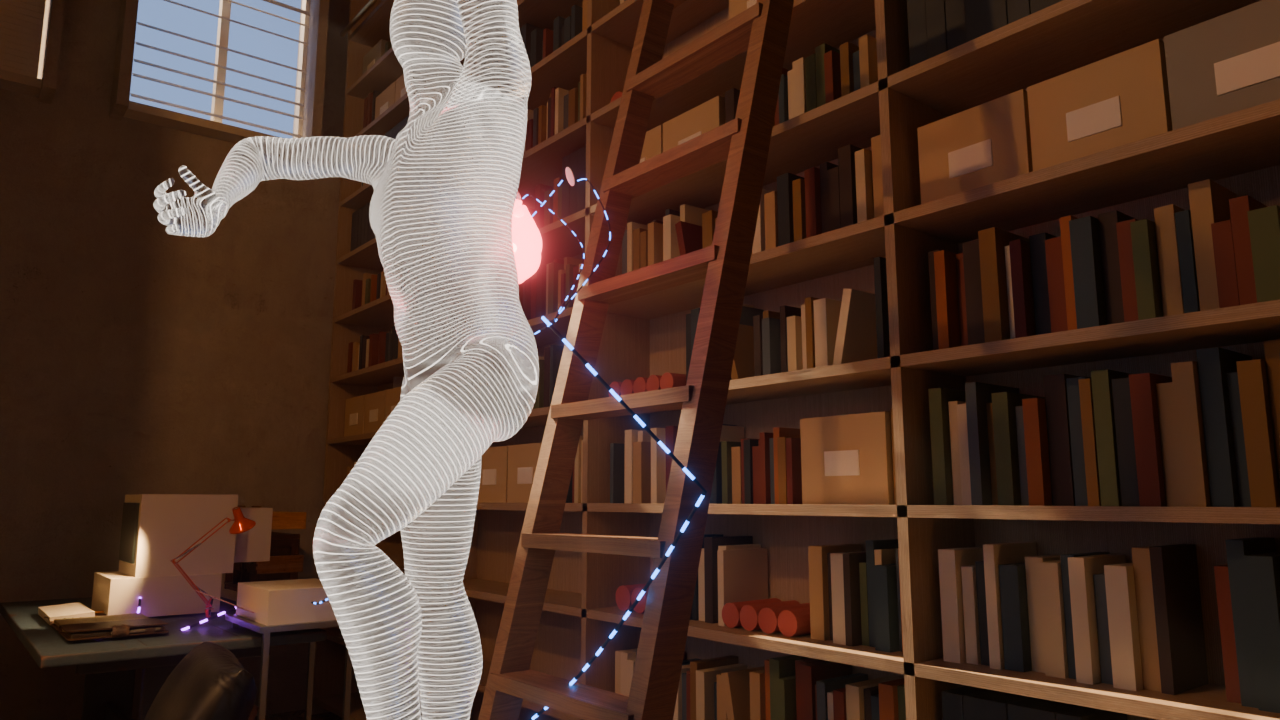
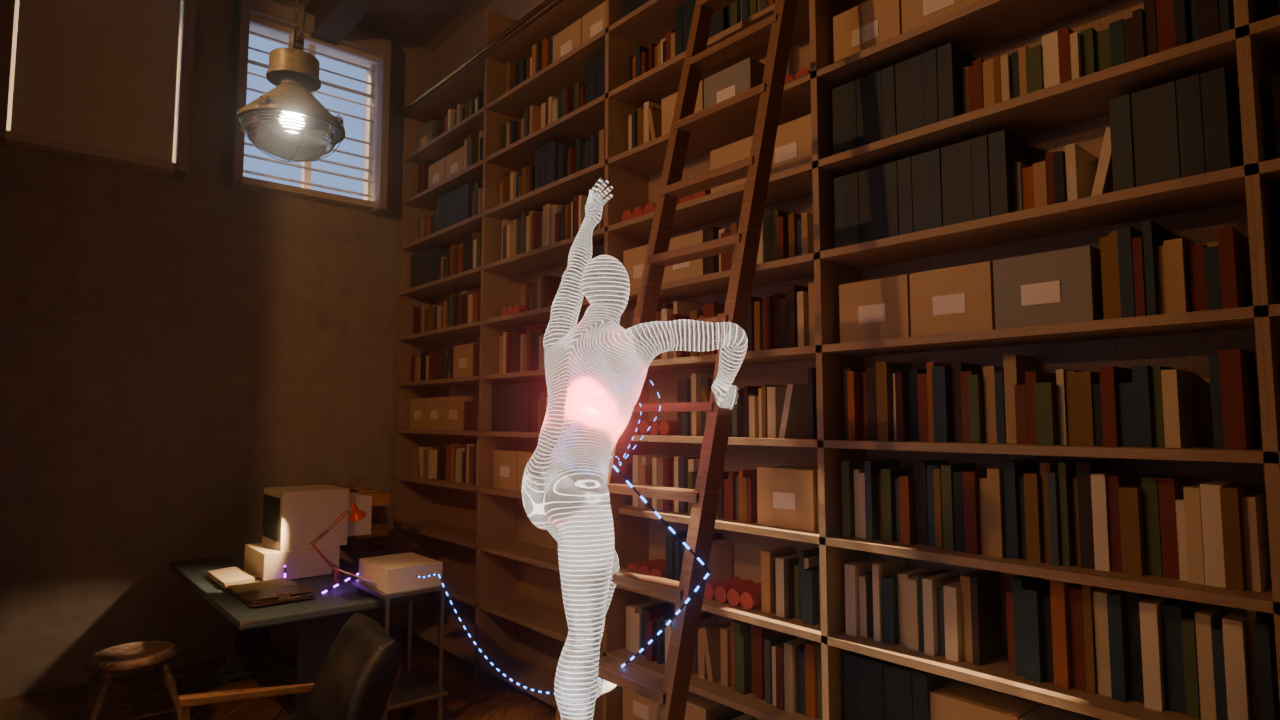
R1 light round + D-050 first draft: final stills sheet (5 spots + clay gate) and self-review
Claude-Session: https://claude.ai/code/session_01AXbpXSdzA7KrmCTamq6EbE

diff --git a/verification/r1-light-round-20261004/README.md b/verification/r1-light-round-20261004/README.md
@@ -1,0 +1,29 @@
+# R1 빛 라운드 첫 시안 + 자리 옮김(D-049, D-050) — 2026-10-04
+
+Blender Cycles 정지 렌더(웹 아님). 시트: `light_round_sheet.jpg`. 자세 점토: `../r1-poses-20261004/poses_clay.jpg`.
+만들기: `python scripts/assets/build-figure-v3.py` → `python scripts/blender/build_archive.py --preview <DIR> --light r2 --pose floor|chair|desk|wall|climb --look h5 --signal clean [--clay]`
+
+## 바뀐 빛 (`--light r2`, r1은 그대로 남음)
+- 창 위계: hero 1(독서 구석 위, 살 12개·간격 10 cm·한 칸 빔·한 살 틀어짐) / support 2(간격 불규칙, 한 칸 빔) / 나머지 3 닫힘(어둠 기준)
+- 창 입구 깊이: 측벽(`APR_reveal`)·인방(`APR_lintel`), hero 살 이름 `BLK_hero_slat`
+- 해: 0.55°(실제 해 크기), 고도 30° → 36°(hero 갈래가 사다리를 지나 발치에)
+- 공기: 방 전체 안개 0.022 → 0.006, hero 통로만 국소 부피(`VOL_hero_corridor` 0.05), 색 중립
+- 하늘빛 1.4 → 0.9, 실용 조명: 측정 의자 위 펜던트, 책상 스탠드
+
+## 자체 검토 (매뉴얼 §17 루브릭 · D-050)
+| 항목 | 판정 | 근거 |
+|---|---|---|
+| 빛의 출발점 | CONDITIONAL | 바닥 장면에서 창은 화면 밖, 대신 사다리를 지난 갈래 → 바닥 무늬로 경로는 읽힘. 사다리 장면에 창이 보임 |
+| 무엇이 빛을 쪼개는가 | PASS | 바닥 패치에 블라인드 살 줄무늬 + 사다리 그림자(점토 A에서도 보임) — 지난 L1(무늬 없는 막대) 해소 |
+| 수광면이 증명 | PASS | 바닥(줄무늬)·사다리 옆대·사람 무릎이 같은 갈래를 받음 |
+| 어둠이 남는가 | PASS | 닫힌 창 쪽 서가·창 아래 벽 장면 양옆 서가가 어둠 기준 |
+| 볼륨이 공간감만 | PASS | 방 전체가 뿌옇지 않음(점토 A와 아름다움 컷의 검은 수준 비슷) |
+| 후처리 없이 성립 | PASS | 점토 A(볼륨·발광 끔)에서도 바닥 장면 구도 성립 |
+| 사람 영역에서 심장이 가장 밝다 | PASS | 다섯 장면 모두 |
+| 장면마다 새 구역 | PASS | 사다리 발치 → 카트·의자 → 책상 → 창 아래 틈 → 사다리 위 |
+| 원인이 화면에 | CONDITIONAL | 책상 장면에 멀티탭·전원선이 화면 밖 → 다음 시안에서 구도에 넣기. 근육 장면의 쥔 손이 작음 |
+| 선 길이 | CONDITIONAL | 창 아래 벽 자리는 카트에서 약 2.9 m — 트렁크가 바닥을 길게 가로지름(점선이 시선을 끔) |
+
+## 남은 것
+- 책상 구도(멀티탭·전원선 포함), 근육 장면에 손 + RA 근접 컷, 벽 자리 트렁크 경로 정리
+- 웹 반영(굽기 r2, 자세 5개 · 자리 옮김 · 숨은 컷, 실용 조명) — 사용자 확인 후 위임 브리프 3
